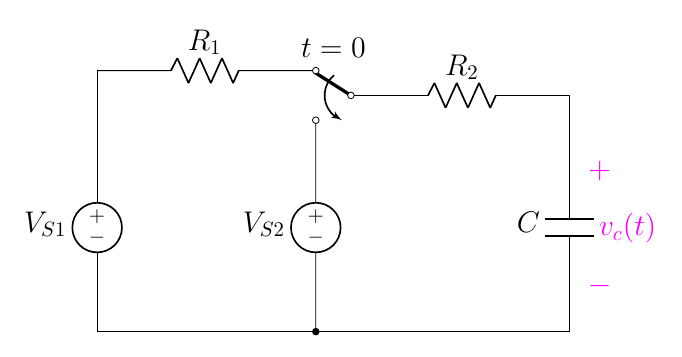
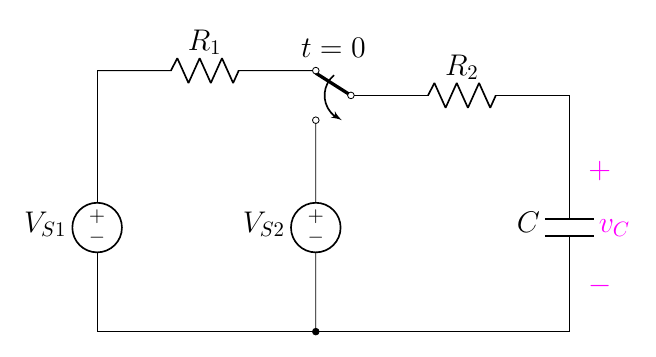
7.40

diff --git a/2.4 Driven RC/7.5 Driven RC/7.40(new).tex b/2.4 Driven RC/7.5 Driven RC/7.40(new).tex
@@ -31,7 +31,7 @@
     %%% find %%%
     \node at (4,4.8)[]{$t=0$};
     \draw[magenta](8.2,0.5)
-        to[open, v>=$v_c(t)$] ++(0,2.5);
+        to[open, v>=$v_C$] ++(0,2.5);
 
 \end{circuitikz}
 \end{document}
